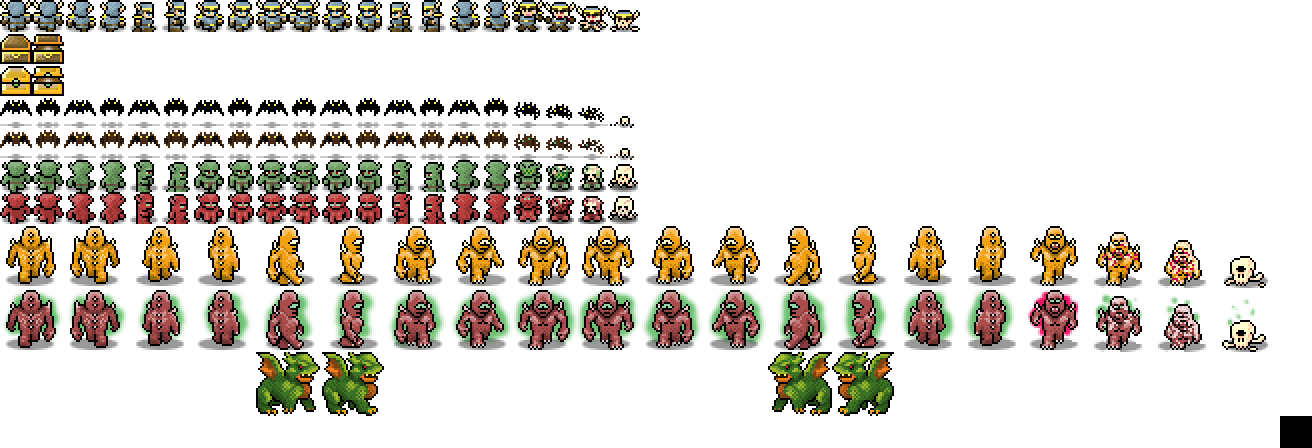
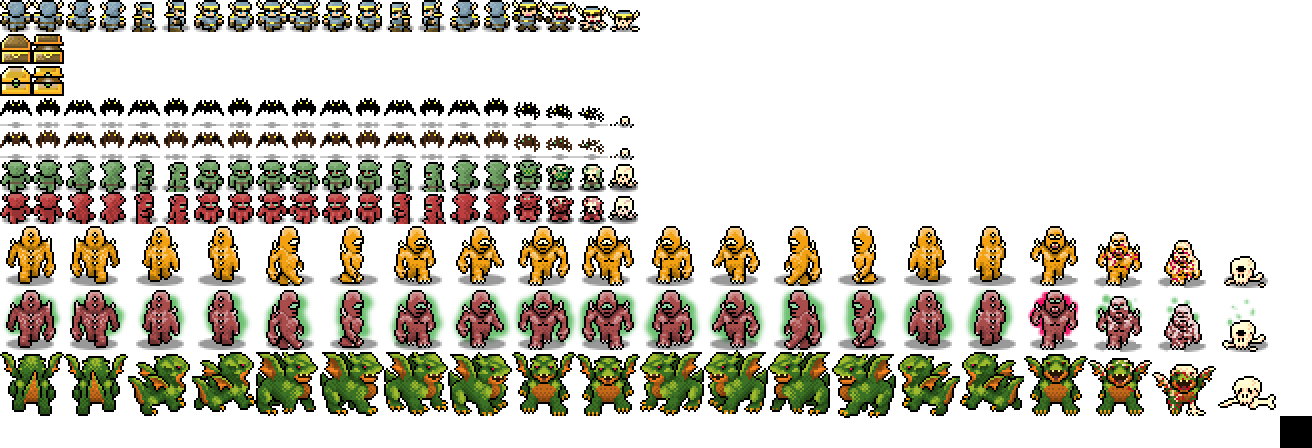
dragon is in. put him in the first wave because he'll need lots of tweaking. will eventually do shadows and make him a new fireball (diff color)

Changed region(s): [[0.2812, 0.7812, 0.9688, 0.9375], [0.0, 0.7812, 0.25, 0.9375]]

diff --git a/htdocs/js/object_types.js b/htdocs/js/object_types.js
@@ -342,6 +342,40 @@ o.superclops = {
 
 };
 
+o.dragon = {
+	role: "monster",
+	team: 1,
+
+	animated: true,
+	gibletSize: "large",
+	size: new horde.Size(64, 64),
+	spriteSheet: "characters",
+	spriteY: 352,
+
+	moveChangeElapsed: 0,
+	moveChangeDelay: 1000,
+
+	damage: 50,
+	hitPoints: 350,
+	speed: 20,
+	worth: 9000,
+
+	soundAttacks: "dragon_attacks",
+	soundDamage: "dragon_damage",
+	soundDies: "dragon_dies",
+
+	weapons: [{type: "e_fireball", count: null}],
+
+	onInit: function () {
+		this.moveChangeDelay = horde.randomRange(500, 1000);
+		this.setDirection(horde.directions.toVector(horde.directions.DOWN));
+	},
+	onUpdate: function (elapsed, engine) {
+		if (this.position.y >= 50) this.onUpdate = movementTypes.chase;
+	}
+
+};
+
 // ENEMY WEAPONS
 
 o.e_rock = {
@@ -392,6 +426,18 @@ o.e_energy_ball = {
 	damage: 10,
 	spriteSheet: "objects",
 	spriteX: 320,
+	spriteY: 0,
+	rotate: true
+};
+
+o.e_fireball = {
+	role: "projectile",
+	cooldown: 2000,
+	speed: 200,
+	hitPoints: 1,
+	damage: 15,
+	spriteSheet: "objects",
+	spriteX: 192,
 	spriteY: 0,
 	rotate: true
 };

diff --git a/htdocs/js/engine.js b/htdocs/js/engine.js
@@ -182,6 +182,10 @@ proto.initSound = function horde_Engine_proto_initSound () {
 		s.create("cyclops_attacks", "sound/effects/cyclops_attacks.mp3");
 		s.create("cyclops_damage", "sound/effects/cyclops_damage.mp3");
 		s.create("cyclops_dies", "sound/effects/cyclops_dies.mp3");
+
+		s.create("dragon_attacks", "sound/effects/dragon_attacks.mp3");
+		s.create("dragon_damage", "sound/effects/dragon_damage.mp3");
+		s.create("dragon_dies", "sound/effects/dragon_dies.mp3");
 		
 	});
 	
@@ -318,9 +322,12 @@ proto.initWaves = function horde_Engine_proto_initWaves () {
 	w.addSpawnPoint(0, 1000);
 	w.addSpawnPoint(1, 1000);
 	w.addSpawnPoint(2, 1000);
+	w.addObjects(0, "dragon", 1);
+/*
 	w.addObjects(0, "bat", 5);
 	w.addObjects(1, "goblin", 5);
 	w.addObjects(2, "bat", 5);
+*/
 	this.waves.push(w);
 	
 	// Wave #2
